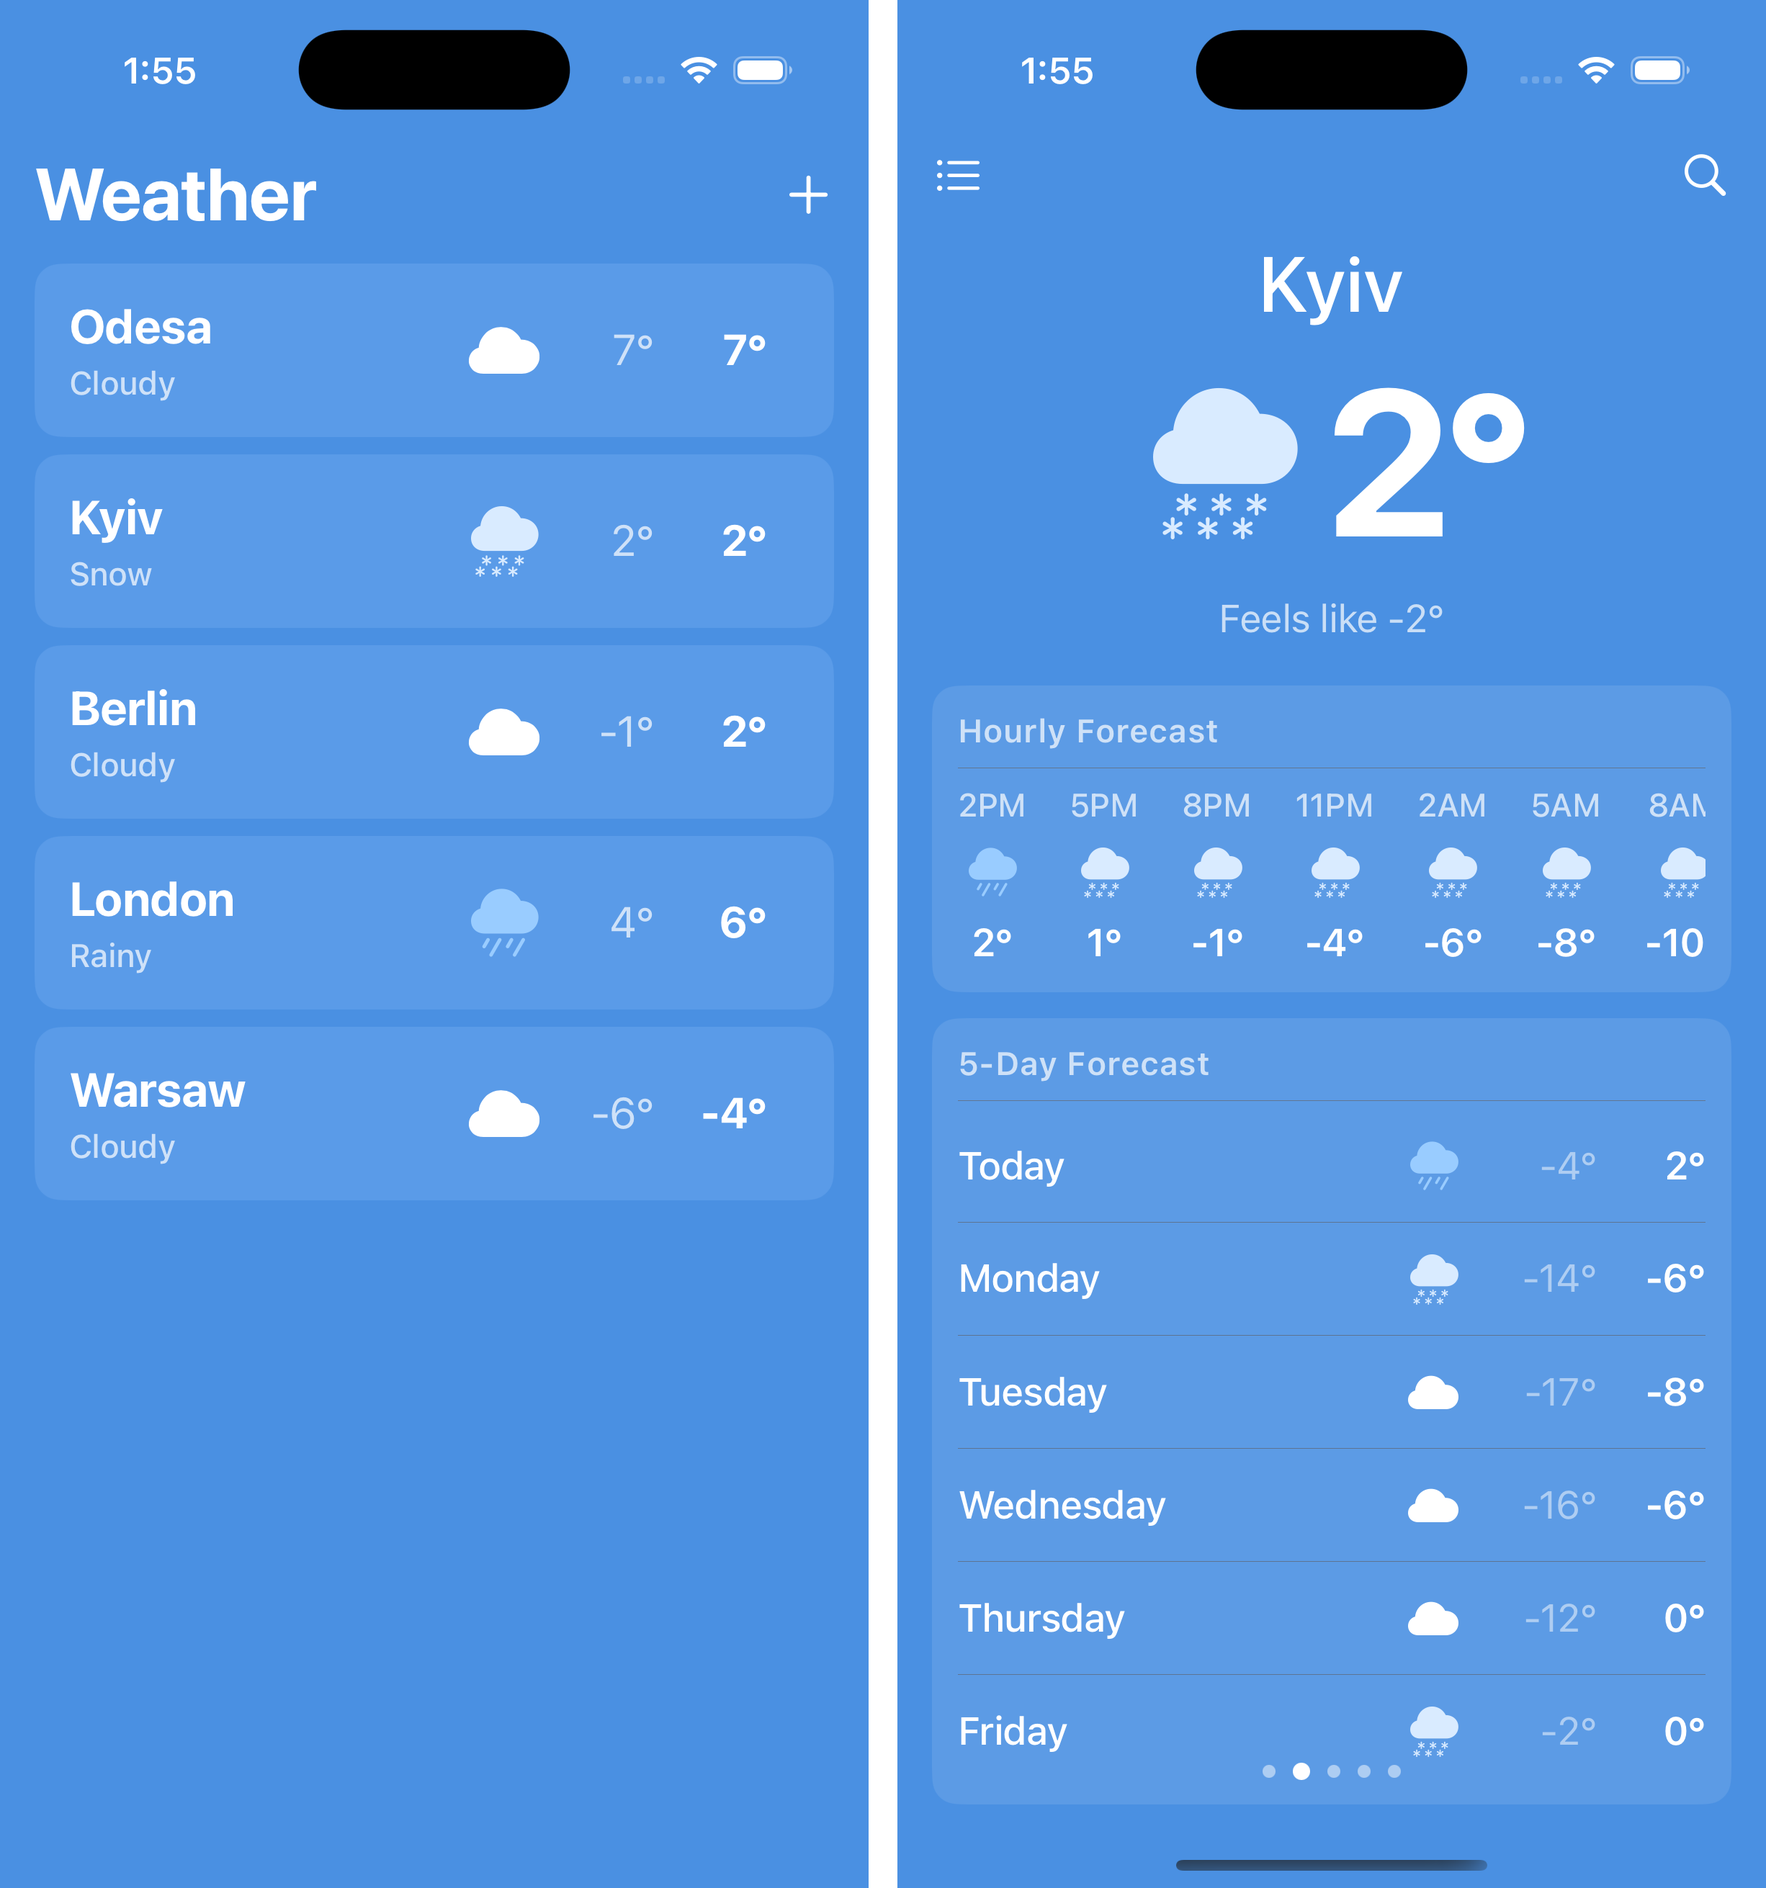
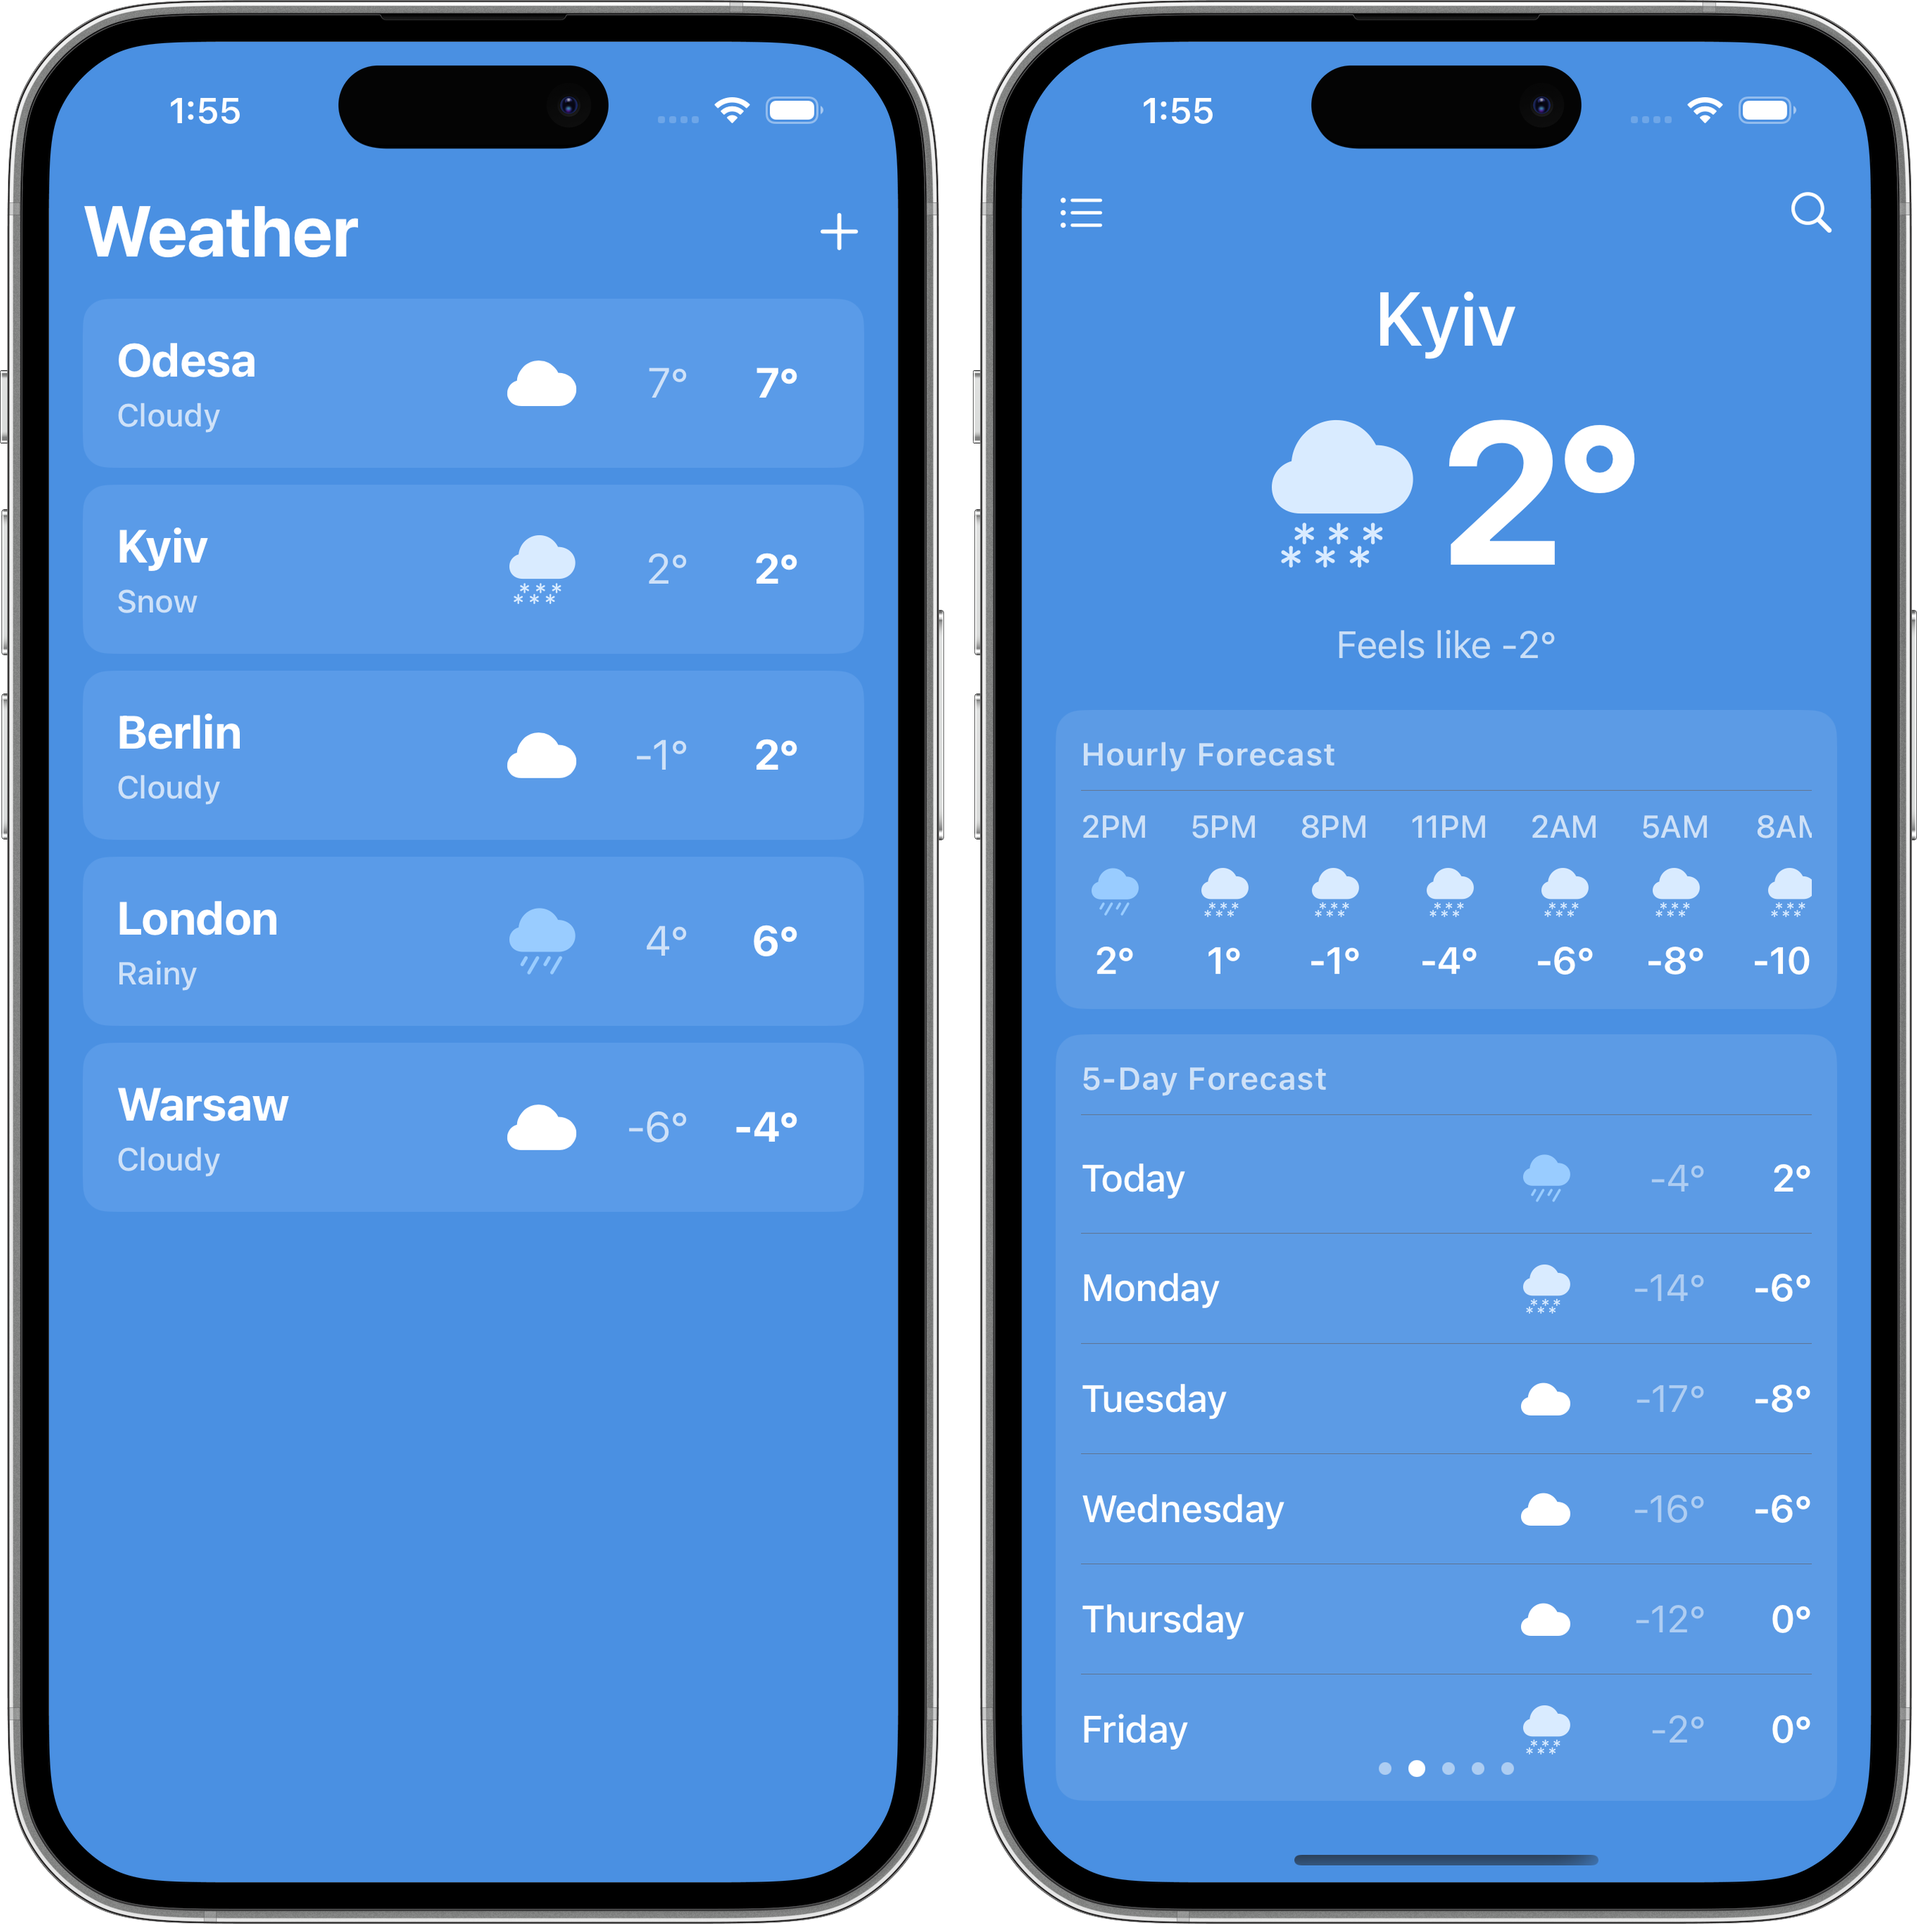
UI: update README with device-framed screenshots
Move the hero screenshot to a three-platform composite and
relocate per-platform screenshots into their respective build
sections for better context.

diff --git a/README.md b/README.md
@@ -13,19 +13,7 @@ Cross-platform Swift weather application for **Android**, **iOS**, **iPadOS**, a
 
 The app shares a common Swift core (`WeatherCore`) for business logic, networking, and persistence across all platforms. Each platform has its own native UI layer - Jetpack Compose on Android and SwiftUI on Apple platforms.
 
-## Screenshots
-
-### Android
-
-![Android](./doc/android.png)
-
-### iOS
-
-![iOS](./doc/ios.png)
-
-### macOS
-
-![macOS](./doc/macos.png)
+![Swift Weather App](./doc/composite.png)
 
 ## Architecture
 
@@ -82,6 +70,8 @@ swift-weather-app/
 
 ### Android
 
+![Android](./doc/android.png)
+
 For building the Android application you need [Readdle's Swift Android Toolchain](https://github.com/readdle/swift-android-toolchain#installation). Please follow the installation guide first.
 
 **Prerequisites:**
@@ -104,6 +94,10 @@ For building the Android application you need [Readdle's Swift Android Toolchain
 The Gradle build automatically compiles the Swift core and bridge package via the `com.readdle.android.swift` plugin.
 
 ### iOS / iPadOS / macOS
+
+![iOS](./doc/ios.png)
+
+![macOS](./doc/macos.png)
 
 **Prerequisites:**
 - Xcode 15 or later
